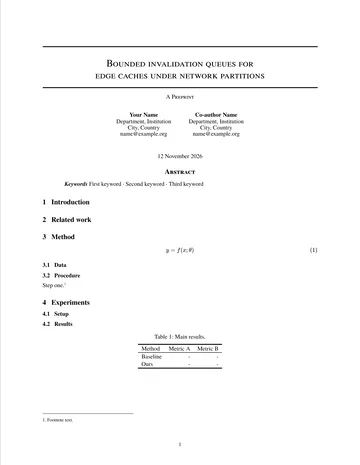
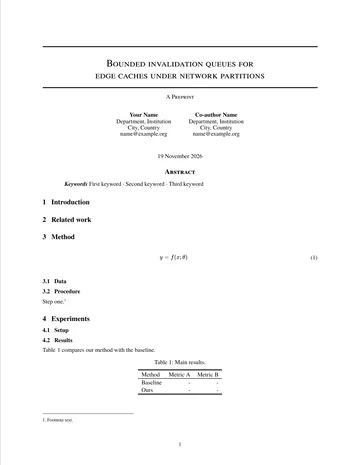
chore(templates): new thesis and arXiv pictures; drop unused exports

Changed region(s): [[0.1222, 0.5419, 0.6111, 0.8731], [0.4583, 0.5118, 0.55, 0.572], [0.8556, 0.5118, 0.8861, 0.572]]

diff --git a/app/utils/editor/citationAssist.ts b/app/utils/editor/citationAssist.ts
@@ -23,7 +23,7 @@ export interface CitationAssistSource {
 }
 
 /** Labels defined in the source: `{#fig:x}`, `{#tbl:x}`, `{#eq:x}`, `{#sec:x}`. */
-export function labelsIn(text: string): string[] {
+function labelsIn(text: string): string[] {
   const out = new Set<string>()
   for (const m of text.matchAll(/\{#((?:fig|tbl|eq|sec):[\p{L}\p{N}_:.-]{1,100})\}/gu)) {
     if (m[1]) out.add(m[1])

diff --git a/app/utils/markdown/references.ts b/app/utils/markdown/references.ts
@@ -30,7 +30,7 @@ const REFERENCE_HEADINGS: ReadonlySet<string> = new Set([
 ])
 
 const REFERENCES_CLASS = 'markoto-references'
-export const REFERENCES_HEADING_CLASS = 'markoto-references-heading'
+const REFERENCES_HEADING_CLASS = 'markoto-references-heading'
 
 const HEADING = /^H([1-6])$/
 const ENTRY_TAGS = new Set(['OL', 'UL', 'P'])

diff --git a/app/utils/markdown/citationResolve.ts b/app/utils/markdown/citationResolve.ts
@@ -45,7 +45,7 @@ export interface CitationInputs {
   style: CitationStyleId
 }
 
-export const BROKEN_REF_CLASS = 'markoto-broken-ref'
+const BROKEN_REF_CLASS = 'markoto-broken-ref'
 const BIBLIOGRAPHY_CLASS = 'markoto-bibliography'
 const CAPTION_LABEL_CLASS = 'markoto-caption-label'
 const XREF_CLASS = 'markoto-xref'
